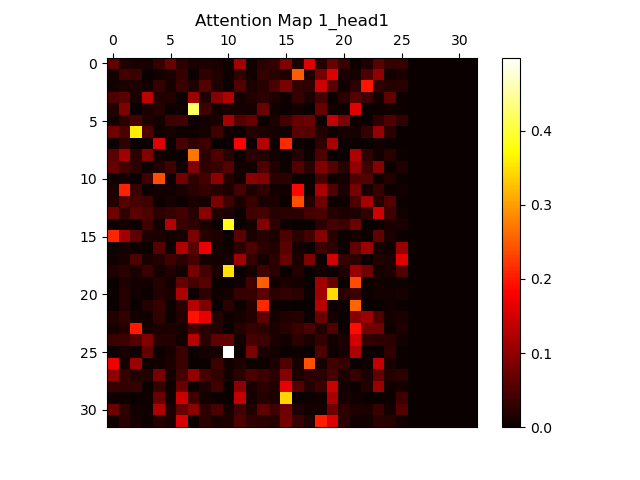
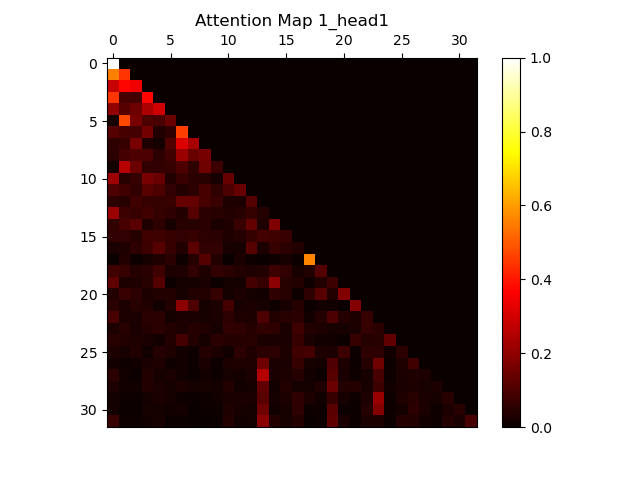
decoder sanity check

diff --git a/utilities.py b/utilities.py
@@ -7,70 +7,83 @@ def create_mask(x):
     """Creates a mask to ignore padding tokens in the input sequence."""
     return (x != 0).unsqueeze(1).unsqueeze(2)  # Shape: (batch_size, 1, 1, seq_length)
 
+def create_target_mask(seq):
+    seq_len = seq.size(1)
+    mask = torch.tril(torch.ones((seq_len, seq_len), device=seq.device)).unsqueeze(0).unsqueeze(0)
+    return mask  # Shape: (1, 1, seq_len, seq_len
+
 class Utilities:
     def __init__(self, tokenizer, model):
         self.tokenizer = tokenizer
         self.model = model
 
-    def sanity_check(self, sentence, block_size):
+    def sanity_check(self, sentence, block_size, part1=True):
         # Encode the sentence using the tokenizer
         wordids = self.tokenizer.encode(sentence)
-
+        device = torch.device("cuda" if torch.cuda.is_available() else "cpu")
         # Prepare the padded input for the model
         padded_sentence = wordids[:block_size] + [0] * (block_size - len(wordids))
-        input_tensor = torch.tensor(padded_sentence, dtype=torch.long).unsqueeze(0)
-
+        input_tensor = torch.tensor(padded_sentence, dtype=torch.long).unsqueeze(0).to(device)
+        self.model.to(device)
         # Display input tensor shape
         print("Input tensor shape:", input_tensor.shape)
+        if part1:
+            # Process the input tensor through the encoder model
+            #_,  attn_maps = self.model(input_tensor) # Ignore the output of the model, and only get the attention maps; make sure your encoder returns the attention maps
+            output, attn_maps = self.model.encoder(input_tensor, create_mask(input_tensor).to(device), return_attention=True)
+            # Display the number of attention maps
+            print("Number of attention maps:", len(attn_maps))
 
-        # Process the input tensor through the encoder model
-        #_,  attn_maps = self.model(input_tensor) # Ignore the output of the model, and only get the attention maps; make sure your encoder returns the attention maps
-        output, attn_maps = self.model.encoder(input_tensor, create_mask(input_tensor), return_attention=True)
-        # Display the number of attention maps
-        print("Number of attention maps:", len(attn_maps))
+            # Visualize and save the attention maps
+            for j, attn_map in enumerate(attn_maps):
+                #print(attn_map.shape)
+                attn_map = attn_map.squeeze(0).detach().cpu().numpy()
+                #print(attn_map.shape)
+                num_heads = attn_map.shape[0]
+                for head in range(num_heads):
+                    #print(attn_map[i].shape)
+                    head_attn_map = attn_map[head]#.squeeze(0).detach().cpu().numpy()
+                    total_prob_over_rows = head_attn_map.sum(axis=1)
+                    if (total_prob_over_rows < 0.99).any() or (total_prob_over_rows > 1.01).any():
+                        print(f"Failed normalization test in layer {j+1}, head {head+1}: probabilities do not sum to 1.0 over rows")
+                        print("Total probability over rows:", total_prob_over_rows)
 
-        # Visualize and save the attention maps
-        for j, attn_map in enumerate(attn_maps):
-            #print(attn_map.shape)
-            attn_map = attn_map.squeeze(0).detach().cpu().numpy()
-            #print(attn_map.shape)
-            num_heads = attn_map.shape[0]
-            for head in range(num_heads):
-                #print(attn_map[i].shape)
-                head_attn_map = attn_map[head]#.squeeze(0).detach().cpu().numpy()
-                total_prob_over_rows = head_attn_map.sum(axis=1)
-                if (total_prob_over_rows < 0.99).any() or (total_prob_over_rows > 1.01).any():
-                    print(f"Failed normalization test in layer {j+1}, head {head+1}: probabilities do not sum to 1.0 over rows")
-                    print("Total probability over rows:", total_prob_over_rows)
+                    fig, ax = plt.subplots()
+                    cax = ax.imshow(head_attn_map, cmap='hot', interpolation='nearest')
+                    ax.xaxis.tick_top()  
+                    fig.colorbar(cax, ax=ax)  
+                    plt.title(f"Attention Map {j + 1}_head{head+1}")
+                
+                    # Save the plot
+                    plt.savefig(f"attention_map_{j + 1}_head{head+1}.png")
 
-                fig, ax = plt.subplots()
-                cax = ax.imshow(head_attn_map, cmap='hot', interpolation='nearest')
-                ax.xaxis.tick_top()  
-                fig.colorbar(cax, ax=ax)  
-                plt.title(f"Attention Map {j + 1}_head{head+1}")
-            
-                # Save the plot
-                plt.savefig(f"attention_map_{j + 1}_head{head+1}.png")
-            # Check if the attention probabilities sum to 1 over rows
-            #total_prob_over_rows = torch.sum(attn_map[0], dim=1)
+        else:
+            trg_mask = create_target_mask(input_tensor).to(device)
+            output, attn_maps = self.model(input_tensor, trg_mask, return_attention=True)
+            print("Number of attention maps:", len(attn_maps))
+            # Visualize and save the attention maps
+            for j, attn_map in enumerate(attn_maps):
+                #print(attn_map.shape)
+                attn_map = attn_map.squeeze(0).detach().cpu().numpy()
+                #print(attn_map.shape)
+                num_heads = attn_map.shape[0]
+                for head in range(num_heads):
+                    #print(attn_map[i].shape)
+                    head_attn_map = attn_map[head]#.squeeze(0).detach().cpu().numpy()
+                    total_prob_over_rows = head_attn_map.sum(axis=1)
+                    if (total_prob_over_rows < 0.99).any() or (total_prob_over_rows > 1.01).any():
+                        print(f"Failed normalization test in layer {j+1}, head {head+1}: probabilities do not sum to 1.0 over rows")
+                        print("Total probability over rows:", total_prob_over_rows)
 
-            #if torch.any(total_prob_over_rows < 0.99) or torch.any(total_prob_over_rows > 1.01):
-            #    print("Failed normalization test: probabilities do not sum to 1.0 over rows")
-            #    #print("Total probability over rows:", total_prob_over_rows.numpy())
-            #    print("Total probability over rows:", total_prob_over_rows.detach().cpu().numpy())
+                    fig, ax = plt.subplots()
+                    cax = ax.imshow(head_attn_map, cmap='hot', interpolation='nearest')
+                    ax.xaxis.tick_top()  
+                    fig.colorbar(cax, ax=ax)  
+                    plt.title(f"Attention Map {j + 1}_head{head+1}")
+                
+                    # Save the plot
+                    plt.savefig(f"attention_map_{j + 1}_head{head+1}.png")
 
-            # Create a heatmap of the attention map
-            #fig, ax = plt.subplots()
-            #cax = ax.imshow(head_attn_map, cmap='hot', interpolation='nearest')
-            #ax.xaxis.tick_top()  
-            #fig.colorbar(cax, ax=ax)  
-            #plt.title(f"Attention Map {j + 1}")
-            
-            # Save the plot
-            #plt.savefig(f"attention_map_{j + 1}.png")
-            
-            # Show the plot
-            #plt.show()
             
 
 

diff --git a/main.py b/main.py
@@ -215,7 +215,7 @@ def main(part):
             trg_mask = create_target_mask(xb)
 
             # Forward pass through the model
-            outputs = model(xb, trg_mask=trg_mask)  # Shape: (batch_size, seq_length, vocab_size)
+            outputs = decoder(xb, trg_mask=trg_mask)  # Shape: (batch_size, seq_length, vocab_size)
 
             # Reshape outputs and targets for loss calculation
             loss = criterion(outputs.view(-1, vocab_size), yb.view(-1))
@@ -232,6 +232,9 @@ def main(part):
                 avg_loss = sum(train_losses[-eval_interval:]) / len(train_losses[-eval_interval:])
                 perplexity = torch.exp(torch.tensor(avg_loss))
                 print(f"Iteration {i + 1}/{max_iters} - Training Loss: {avg_loss:.4f} - Perplexity: {perplexity:.2f}")
+        utilities = Utilities(tokenizer, decoder)
+        sample_sentence = "This is a sample sentence to visualize attention maps, which is intentionally made around 32 words to see if the attention map works properly."
+        utilities.sanity_check(sample_sentence, block_size=32, part1=False)
 
         print("Training complete.")
 
